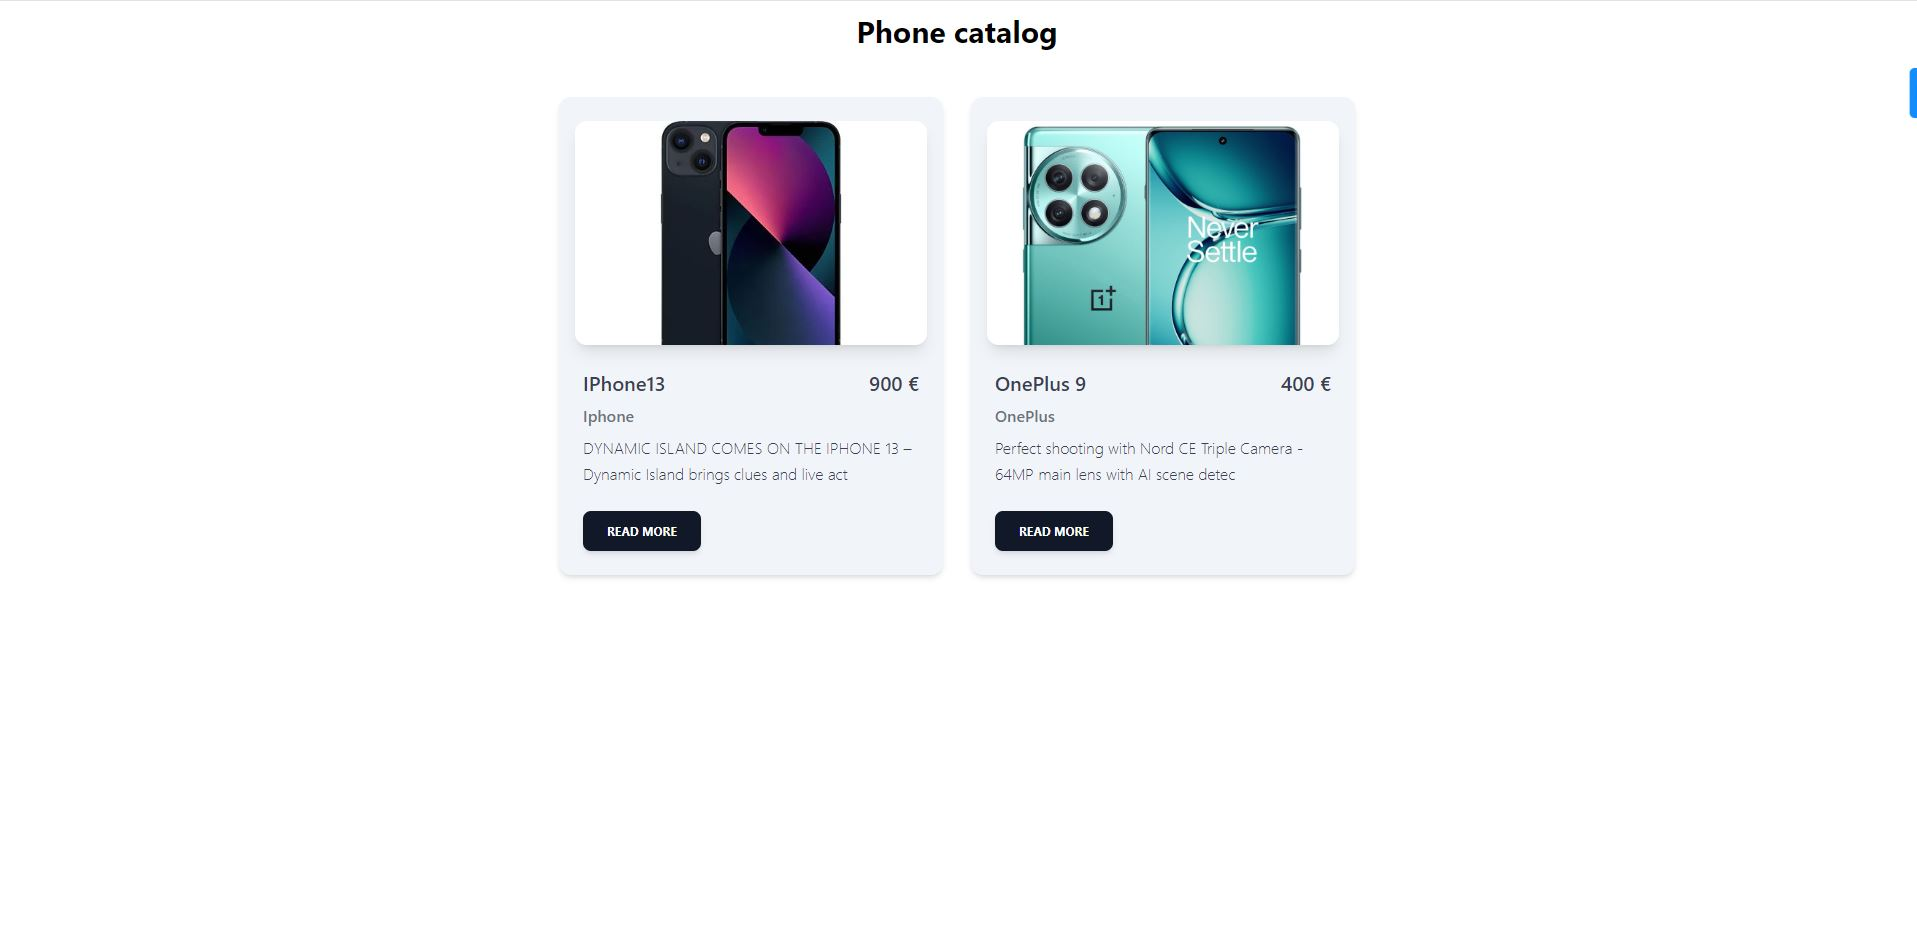
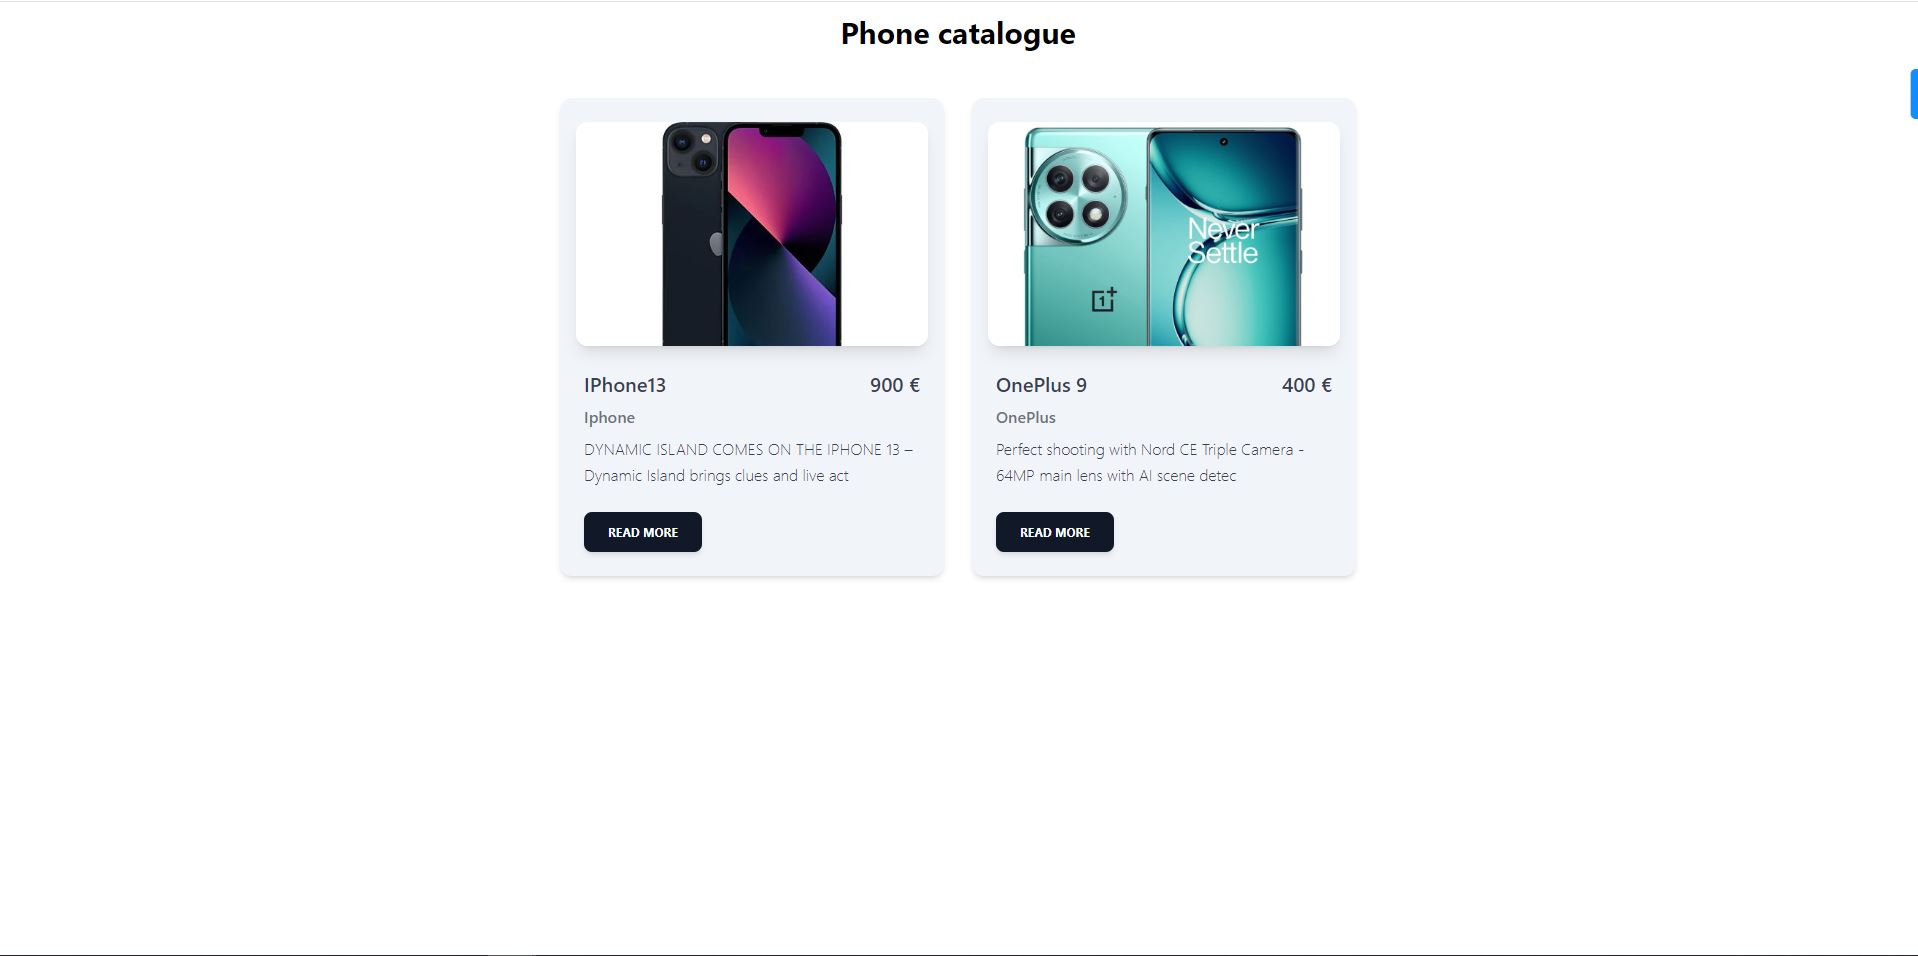
Minor Changes

diff --git a/phone-cave-client/src/component/PhoneList.jsx b/phone-cave-client/src/component/PhoneList.jsx
@@ -19,7 +19,7 @@ function PhoneList() {
 
   return (
     <div className="m-3 flex justify-items-center flex-col items-center">
-    <h1 className="text-3xl font-bold dark:text-white mb-3">Phone catalog</h1>
+    <h1 className="text-3xl font-bold dark:text-white mb-3">Phone catalogue</h1>
     <div className="m-3 flex justify-items-center flex-row items-center gap-7">
     
     {

diff --git a/phone-cave-client/src/component/PhoneDetails.jsx b/phone-cave-client/src/component/PhoneDetails.jsx
@@ -207,7 +207,7 @@ useEffect(()=>{
                 <div class="mt-6 ">
                 <Link to="/">
                   <button class="w-full px-4 py-2 font-bold text-white bg-blue-400 lg:w-96 hover:bg-blue-500">
-                    Back to catlog
+                    Back to catlogue
                   </button>
                 </Link>
                 </div>
